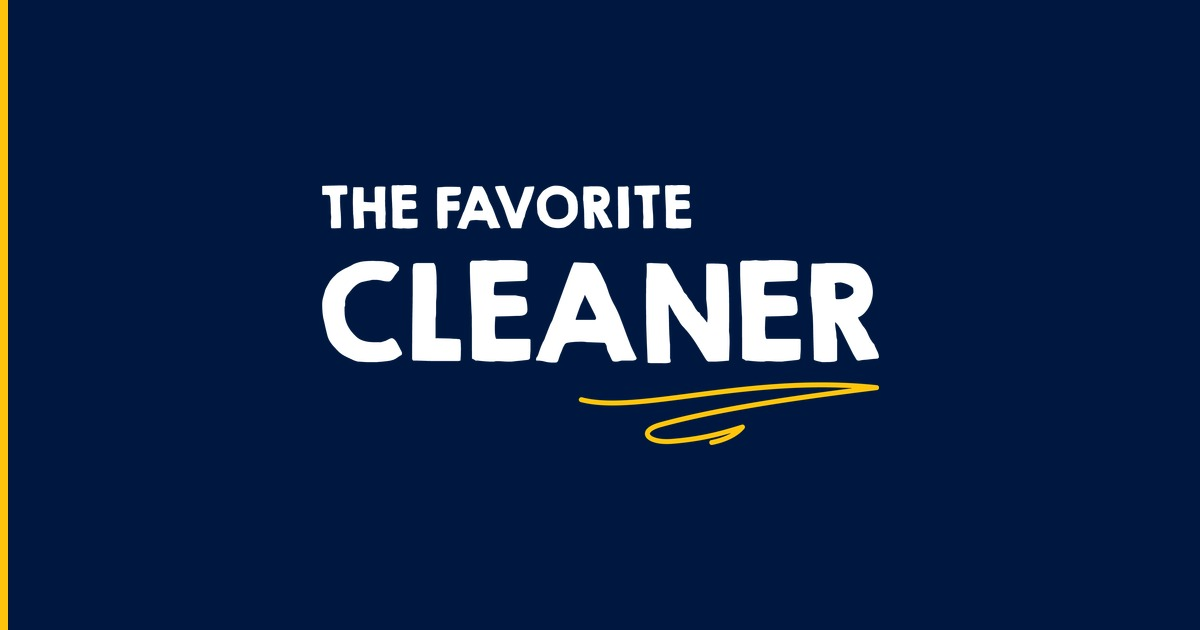
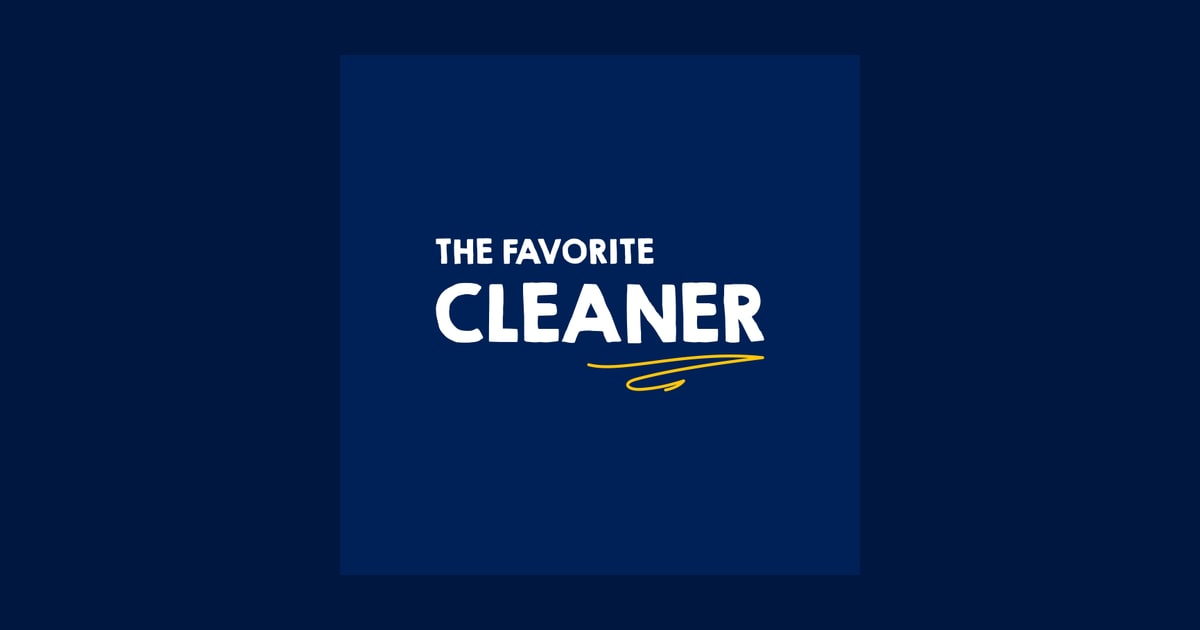
d

Changed region(s): [[0.2467, 0.2714, 0.74, 0.7238], [0.0, 0.0, 0.0308, 1.0], [0.2775, 0.8746, 0.7092, 0.9048]]

diff --git a/scripts/build-pages.js b/scripts/build-pages.js
@@ -185,13 +185,18 @@ function head({ title, description, path: pagePath, ogType = "website", schema =
   <meta property="og:description" content="${description}" />
   <meta property="og:url" content="${canonical}" />
   <meta property="og:image" content="${SITE}/assets/brand/social-preview.jpg" />
+  <meta property="og:image:width" content="1200" />
+  <meta property="og:image:height" content="630" />
+  <meta property="og:image:alt" content="The Favorite Cleaner - Premium Cleaning Services" />
   <meta property="og:site_name" content="The Favorite Cleaner" />
   <meta name="twitter:card" content="summary_large_image" />
   <meta name="twitter:title" content="${title}" />
   <meta name="twitter:description" content="${description}" />
   <meta name="twitter:image" content="${SITE}/assets/brand/social-preview.jpg" />
-  <link rel="icon" type="image/png" href="assets/brand/favicon.png" />
-  <link rel="apple-touch-icon" href="assets/brand/logo-mark.png" />
+  <link rel="icon" type="image/png" sizes="32x32" href="assets/brand/favicon-32.png" />
+  <link rel="icon" type="image/png" sizes="64x64" href="assets/brand/favicon.png" />
+  <link rel="apple-touch-icon" sizes="180x180" href="assets/brand/apple-touch-icon.png" />
+  <link rel="image_src" href="assets/brand/social-preview-square.jpg" />
   <link rel="preconnect" href="https://fonts.googleapis.com" />
   <link rel="preconnect" href="https://fonts.gstatic.com" crossorigin />
   <link href="https://fonts.googleapis.com/css2?family=Manrope:wght@400;500;600;700;800&family=Outfit:wght@500;600;700;800&display=swap" rel="stylesheet" />
@@ -334,8 +339,8 @@ const localBusinessSchema = `
   "description": "Professional cleaning services for homes and businesses across Texas, delivered with reliability, consistency, and careful attention to detail.",
   "url": "${SITE}/",
   "email": "${EMAIL}",
-  "image": "${SITE}/assets/brand/social-preview.jpg",
-  "logo": "${SITE}/assets/brand/logo-dark.png",
+  "image": "${SITE}/assets/brand/social-preview-square.jpg",
+  "logo": "${SITE}/assets/brand/logo-mark.png",
   "areaServed": {
     "@type": "State",
     "name": "Texas"
